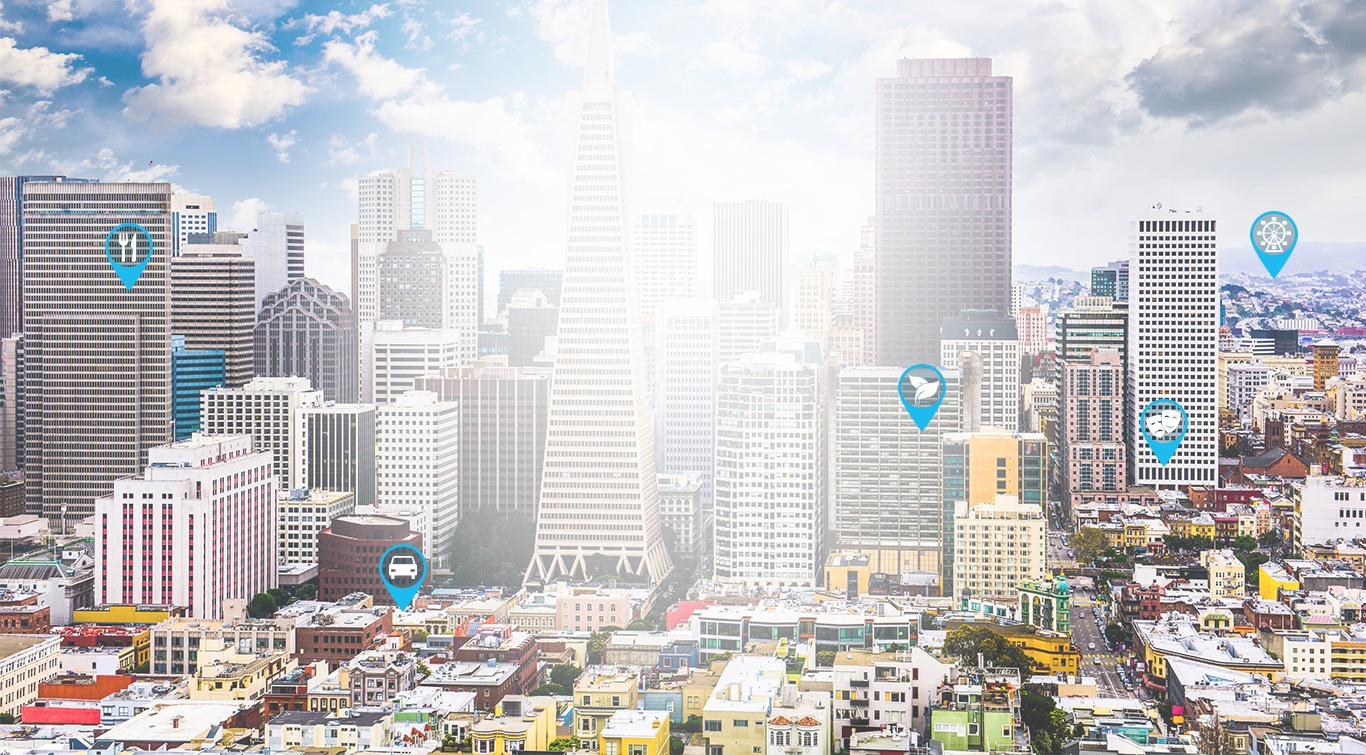
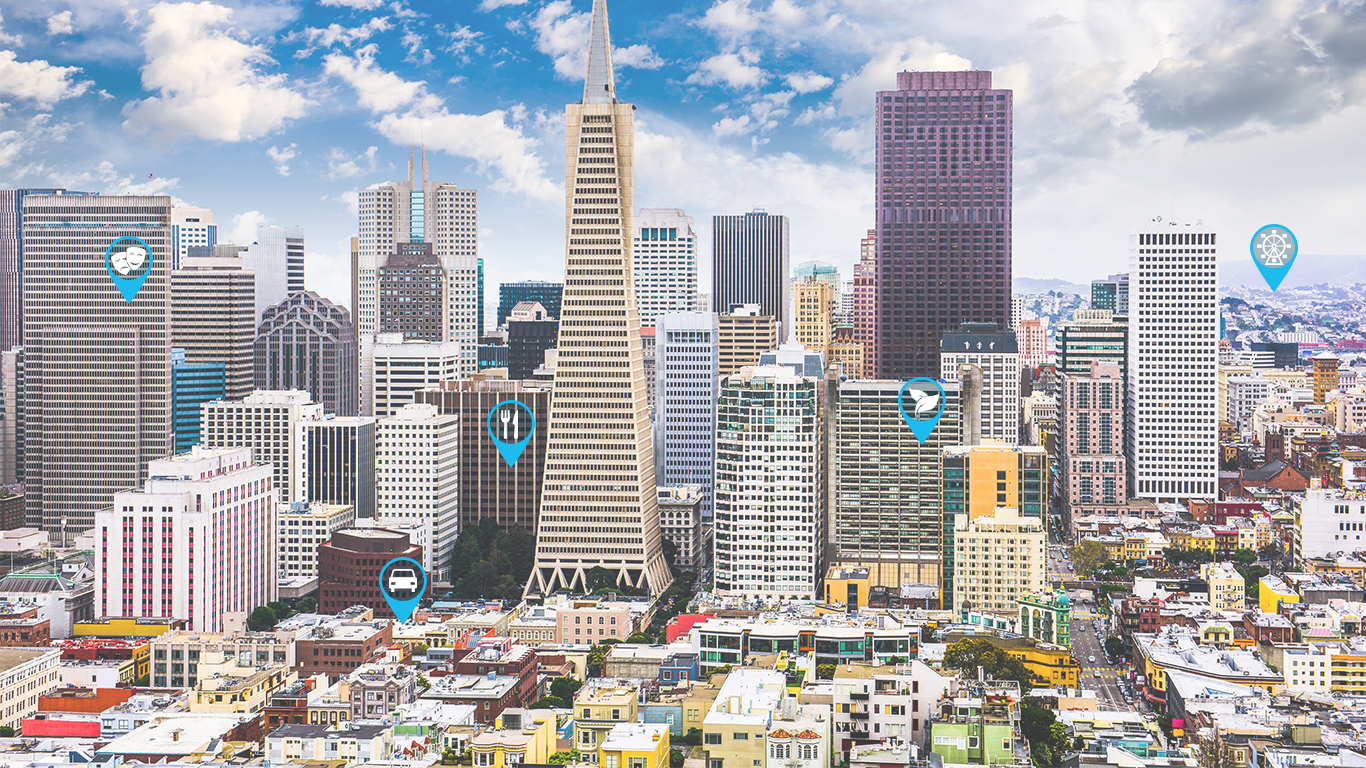
added new images and update functional

diff --git a/css/style.css b/css/style.css
@@ -5,27 +5,39 @@
 }
 .icompazz-wrapper-slider {
     height: 100%;
-    width: 200%;
+    width: 500%;
     position: fixed;
     left: 0;
 }
 .icompazz-wrapper-slider-box {
     background-color: transparent;
-    background-position: 0 0;
+    background-position: 50% 50%;
     background-repeat: no-repeat;
     background-size: cover;
     height: 100%;
     left: 0;
     position: absolute;
     top: 0;
-    width: 50%;
+    width: 20%;
 }
 .icompazz-wrapper-slider-box.bg-2 {
     background-image: url("../images/assets/bg_2.png");
 }
 .icompazz-wrapper-slider-box.bg-3 {
     background-image: url("../images/assets/bg_3.png");
-    left: 50%;
+    left: 20%;
+}
+.icompazz-wrapper-slider-box.bg-4 {
+    background-image: url("../images/assets/bg_4.png");
+    left: 40%;
+}
+.icompazz-wrapper-slider-box.bg-5 {
+    background-image: url("../images/assets/bg_5.png");
+    left: 60%;
+}
+.icompazz-wrapper-slider-box.bg-6 {
+    background-image: url("../images/assets/bg_2.png");
+    left: 80%;
 }
 
 .icompazz-form {
@@ -37,12 +49,16 @@
 
 .icompazz-form .icompazz-logo {
     background: url('../images/assets/logo_icompazz.png') no-repeat 50% 50% transparent;
-    margin-bottom: 220px;
+    margin-bottom: -20px;
     height: 255;
+}
+.icompazz-form .icompazz-logo-text {
+    margin-bottom: 180px;
+    color: #303030;
 }
 .icompazz-form .box-form {
     width: 470px;
-    height: 176px;
+    height: 196px;
     background: #fff;
     border: none;
     border-radius: 16px;
@@ -50,7 +66,8 @@
 }
 
 .box-form h4 {
-    margin: 15px 0;
+    margin: 20px 0 10px;
+    color: #303030;
 }
 .box-form input {
     border: 4px solid #81C028;

diff --git a/js/app.js b/js/app.js
@@ -8,17 +8,22 @@ jQuery(document).ready(function() {
     
     function init() {
         var $slideBG = $('.icompazz-wrapper-slider'),
+            $slideItems = $slideBG.find('.icompazz-wrapper-slider-box').length,
             doAnim = function(pos) {
-                console.log('eee');
-                $slideBG.stop().animate({left: ( pos ? '-100%' : 0)}, function() {
+                pos = pos || 1;
+                $slideBG.stop().animate({left: '-' + (pos * 100) + '%'}, 700, function() {
+                    pos++;
                     window.setTimeout(function() {
-                        doAnim(!pos);
+                        if ( $slideItems === pos ) {
+                            $slideBG.css({left: 0});
+                            pos = 1;
+                        }
+                        doAnim(pos);
                     }, bgInterval);
                 });
             };
         
             window.setTimeout(function() {
-                console.log('eee 1');
                 doAnim();
             }, bgInterval);
     }

diff --git a/index.html b/index.html
@@ -13,15 +13,15 @@
     <body>
         <div class="icompazz-wrapper">
             <div class="icompazz-wrapper-slider">
-                <div class="icompazz-wrapper-slider-box bg-2">
-
-                </div>
-                <div class="icompazz-wrapper-slider-box bg-3">
-
-                </div>
+                <div class="icompazz-wrapper-slider-box bg-2"></div>
+                <div class="icompazz-wrapper-slider-box bg-3"></div>
+                <div class="icompazz-wrapper-slider-box bg-4"></div>
+                <div class="icompazz-wrapper-slider-box bg-5"></div>
+                <div class="icompazz-wrapper-slider-box bg-6"></div>
             </div>            
             <div class="icompazz-form">
                 <div class="icompazz-logo"></div>
+                <div class="icompazz-logo-text"><h4>Personalized & Intelligent Concierge Service</h4></div>
                 <form class="box-form" onsubmit="return submitEmail();">
                     <div class="local-overlay"></div>
                     <div class="form-group">
